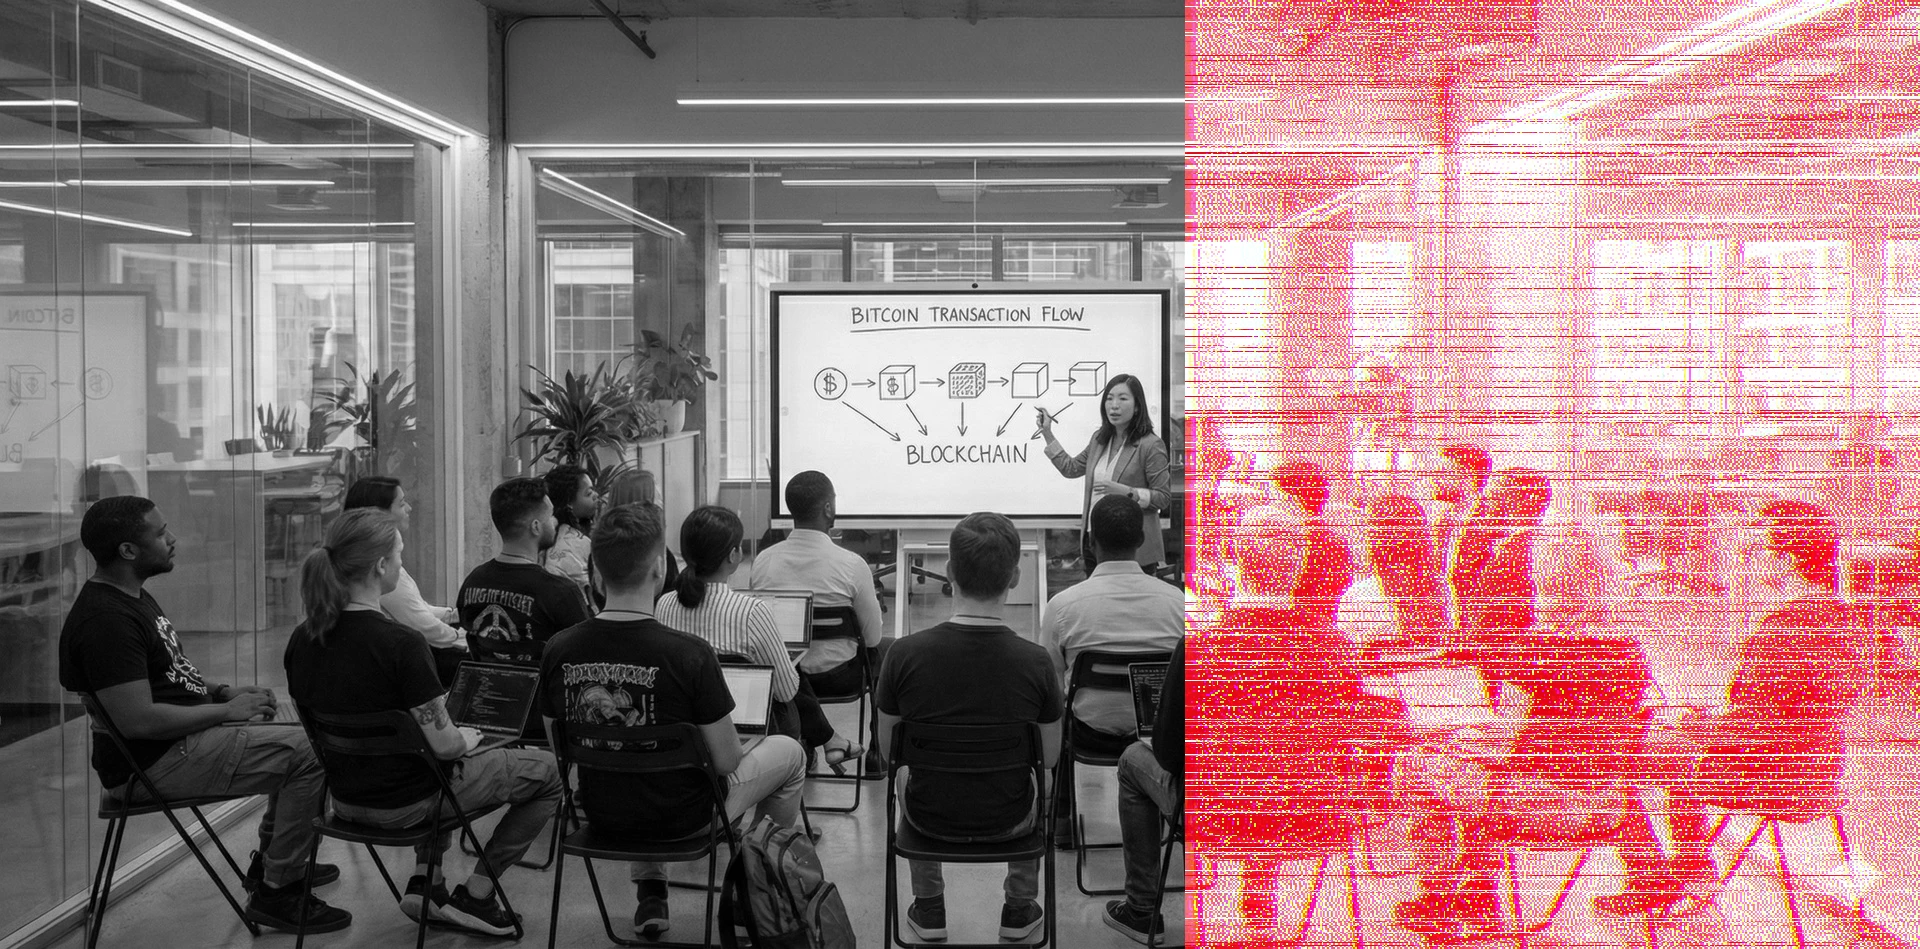
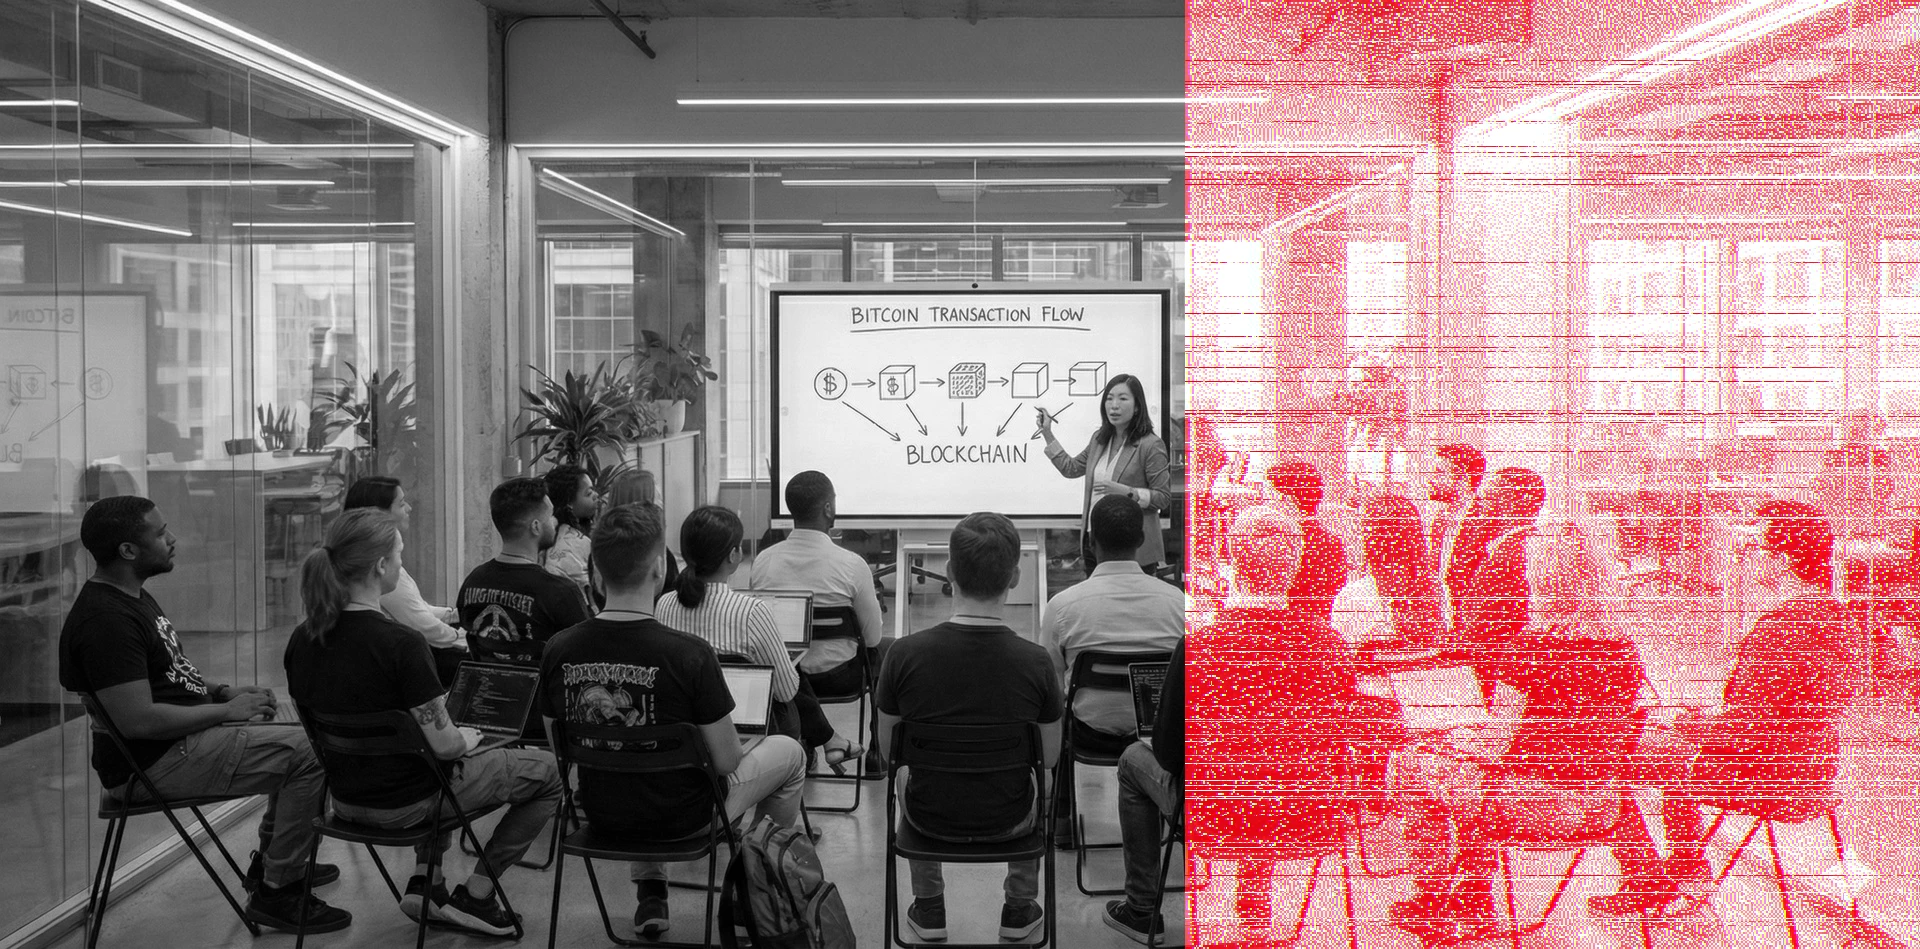
Reduce glitch intensity in examples and fix docs
Change glitch examples from 0.1→0.02 (subtle) and 0.2→0.1 (moderate)
for better aesthetics at 1920px. Fix description text that still
referenced old glitch=0.2 value.

Changed region(s): [[0.5938, 0.0, 1.0, 1.0]]

diff --git a/README.md b/README.md
@@ -81,7 +81,7 @@ Dynamic thresholding adapts to local brightness, preserving more detail in brigh
 ### Example 6: Glitch Mode
 
 ```bash
-./effect.sh --glitch=0.1 --grayscale test-image-1920px.jpg
+./effect.sh --glitch=0.02 --grayscale test-image-1920px.jpg
 ```
 
 ![Glitch Example](examples/example-glitch.webp)
@@ -96,12 +96,12 @@ Introduces controlled data degradation for cyberpunk aesthetics:
 ### Example 7: Glitch Mode with Fade
 
 ```bash
-./effect.sh --glitch=0.2 --grayscale --fade=0.9 --jitter=10 test-image-1920px.jpg
+./effect.sh --glitch=0.1 --grayscale --fade=0.9 --jitter=10 test-image-1920px.jpg
 ```
 
 ![Glitch Fade Example](examples/example-glitch-fade.webp)
 
-Higher glitch intensity (0.2) combined with heavy 90% fade and low jitter creates an extremely sparse, ghostly corruption effect. The minimal pixel distribution lets the glitching breathe.
+Higher glitch intensity (0.1) combined with heavy 90% fade and low jitter creates an extremely sparse, ghostly corruption effect. The minimal pixel distribution lets the glitching breathe.
 
 ### Example 8: Gradient Density
 
@@ -150,7 +150,7 @@ In this example, `q=4` restricts the red dots to just 4 distinct shades of inten
 ### Example 11: Shaded Dithering with Quantization and Glitch
 
 ```bash
-./effect.sh --shade="1,q=4" --glitch=0.1 --grayscale test-image-1920px.jpg
+./effect.sh --shade="1,q=4" --glitch=0.02 --grayscale test-image-1920px.jpg
 ```
 
 ![Shaded Quantized Glitch Example](examples/example-shade-quantized-glitch.webp)
@@ -449,7 +449,7 @@ Introduce controlled digital corruption.
 
 ```bash
 # Mild glitch (0.1): Subtle artifacts, slight color shift
-./effect.sh --glitch=0.1 image.jpg
+./effect.sh --glitch=0.02 image.jpg
 
 # Heavy glitch (0.5+): Strong channel shifting, row swapping, and noise
 ./effect.sh --glitch=0.5 image.jpg

diff --git a/ORIGINAL.md b/ORIGINAL.md
@@ -203,7 +203,7 @@ All examples below are generated reproducibly by `generate-examples.sh` with `--
 ### Example 13: Original Mode with Glitch
 
 ```bash
-./effect.sh --mode=original --grayscale --glitch=0.1 image.jpg
+./effect.sh --mode=original --grayscale --glitch=0.02 image.jpg
 ```
 
 ![Original Mode with Glitch](examples/example-original-glitch.webp)
